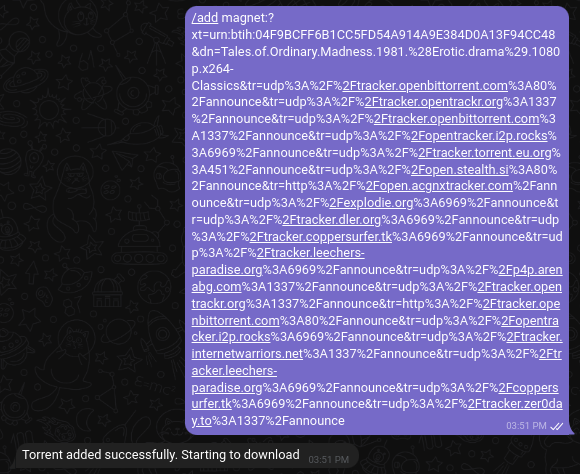
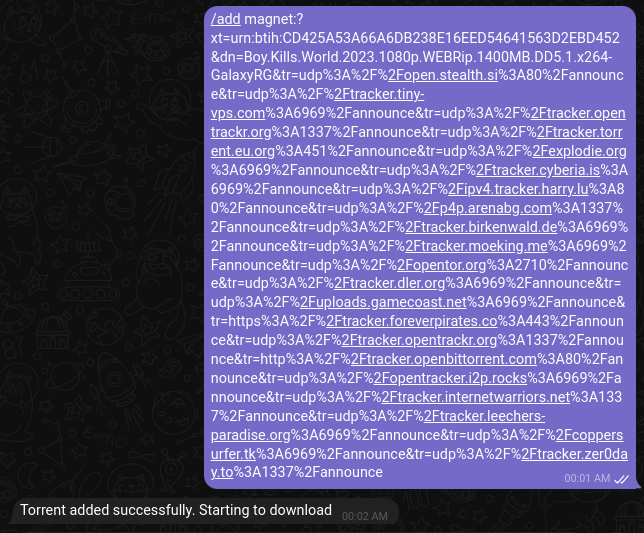
screen shots update

Changed region(s): [[0.3103, 0.0, 0.9931, 0.9156], [0.031, 0.9451, 0.5276, 0.9747]]

diff --git a/README.md b/README.md
@@ -11,7 +11,7 @@ This project provides an automated setup for running a qBittorrent client within
 # Setting up ftp server
 I have created a volume for the `/ftp` directory within the Docker container. So all the downloaded files gonna be there. You have to create ftp server for that directory. I am using `vsftpd` to setup the ftp server in my linux machine. You can find all the steps in this blog post https://www.geeksforgeeks.org/how-to-setup-and-configure-an-ftp-server-in-linux-2 . Explore google if you have different operating system.
 
-<!-- ## Screenshots
+## Screenshots
 
 1. **The `/start` command**:
    ![The `/start` command](https://raw.githubusercontent.com/jayeen28/torrent-to-ftp/main/screen_shots/Screenshot%20from%202024-05-21%2016-49-42.png)
@@ -20,4 +20,4 @@ I have created a volume for the `/ftp` directory within the Docker container. So
    ![The `/add magnetLink` command](https://raw.githubusercontent.com/jayeen28/torrent-to-ftp/main/screen_shots/Screenshot%20from%202024-05-21%2016-50-49.png)
 
 1. **The `/seAll` command**:
-   ![The `/seeAll` command](https://raw.githubusercontent.com/jayeen28/torrent-to-ftp/main/screen_shots/Screenshot%20from%202024-05-21%2016-51-13.png) -->
+   ![The `/seeAll` command](https://raw.githubusercontent.com/jayeen28/torrent-to-ftp/main/screen_shots/Screenshot%20from%202024-05-21%2016-51-13.png)
